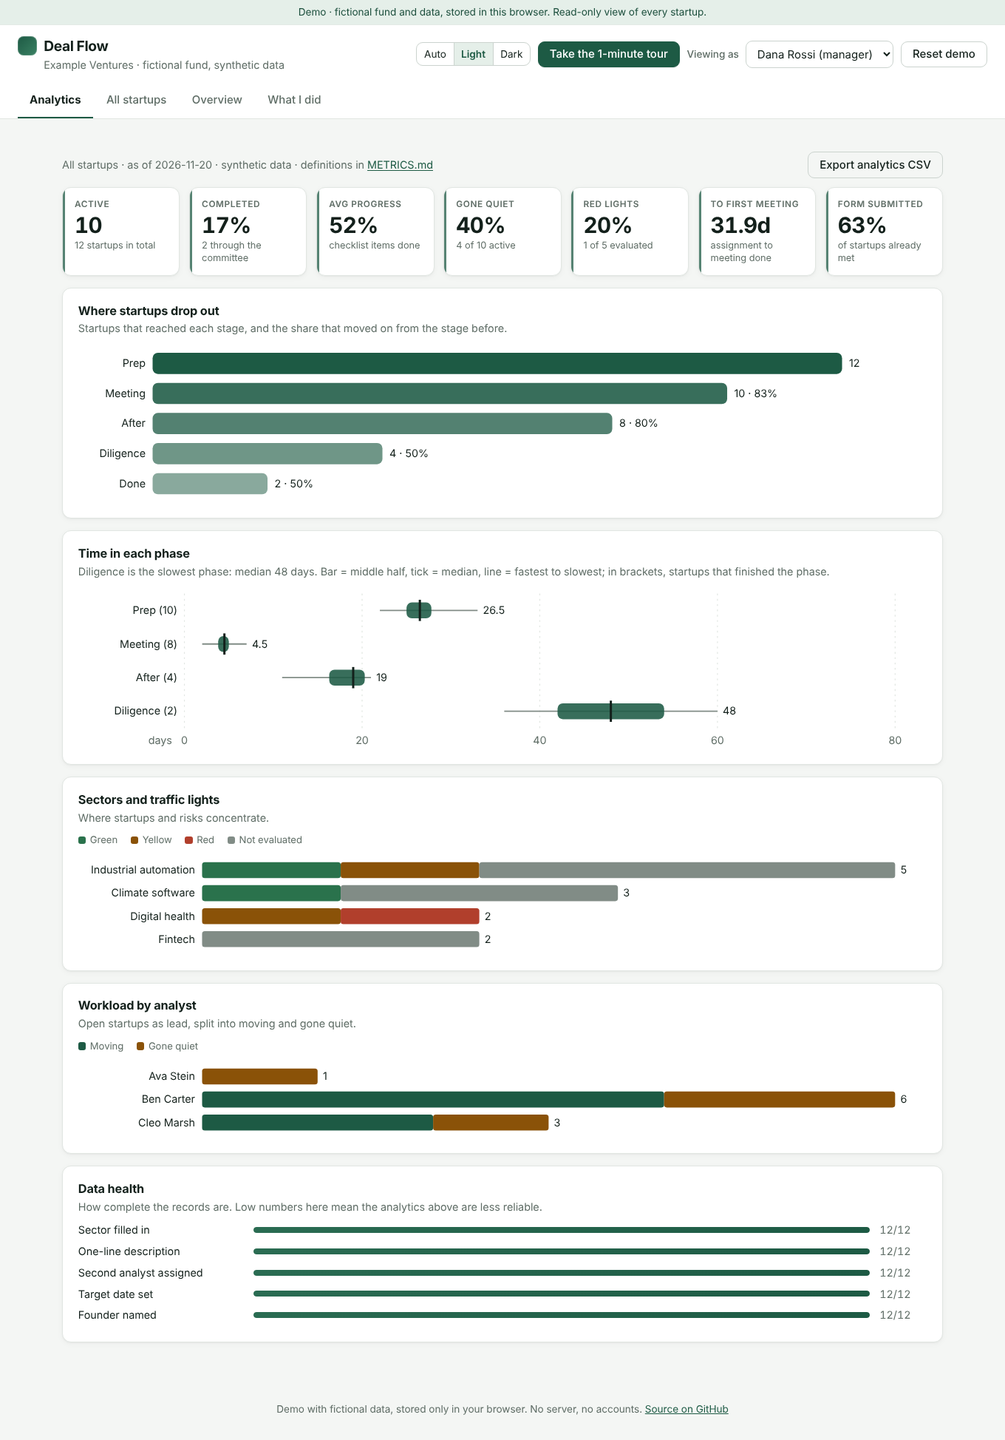
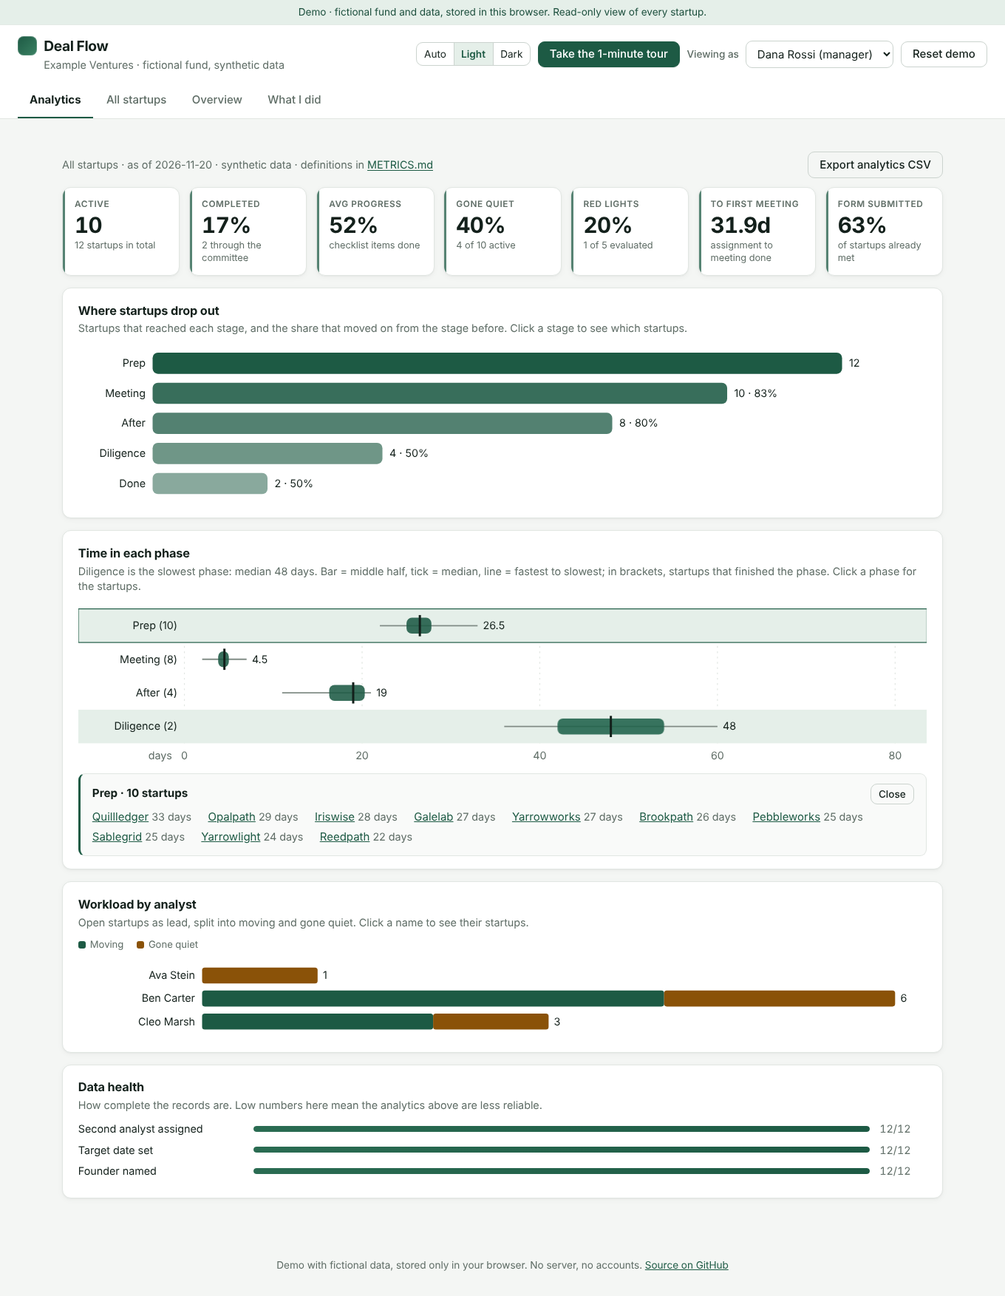
feat: interactive analytics charts with click-through, focus on real-process metrics; redesign What I did with origin story
Claude-Session: https://claude.ai/code/session_01N9arR7BoFCMTo9ZA3dDA75

diff --git a/js/app.js b/js/app.js
@@ -4,7 +4,7 @@ import {
   toggleItem, logActivity, p0Rule, proposeForm, formBlockers, openQuestions, startupLight,
   findSlots, bookSlot, freeSlots, slotLabel, draftText, analystSummary, parseCsv, toCsv, newStartup,
 } from './logic.js';
-import { pipelineKpis, funnel, stageDurationStats, sectorByLight, lightMix, datasetHealth, analyticsCsv } from './analytics.js';
+import { pipelineKpis, funnel, stageDurationStats, lightMix, datasetHealth, analyticsCsv, drillDown } from './analytics.js';
 import { rangeChart, stackedBars, funnelChart, dataTable } from './charts.js';
 import { TOUR_STEPS } from './tour.js';
 import { seedPortfolio, portfolioAvailability, PORTFOLIO_USERS } from '../data/portfolio-seed.js';
@@ -30,7 +30,7 @@ const state = {
   userId: USERS.some((u) => u.id === params.get('as')) ? params.get('as') : 'dana',
   view: ['overview', 'deal', 'deals', 'analytics', 'about'].includes(params.get('view')) ? params.get('view') : 'analytics',
   dealId: params.get('deal') || null,
-  tour: params.get('tour') ? Math.min(Number(params.get('tour')) - 1, TOUR_STEPS.length - 1) : null, phase: null, tab: 'founders', tile: null, q: '', importPreview: null, status: '',
+  tour: params.get('tour') ? Math.min(Number(params.get('tour')) - 1, TOUR_STEPS.length - 1) : null, phase: null, tab: 'founders', tile: null, q: '', importPreview: null, drill: null, status: '',
   theme: ['light', 'dark'].includes(params.get('theme')) ? params.get('theme') : readTheme(),
 };
 if (state.view === 'deal' && !state.startups.some((s) => s.id === state.dealId)) state.view = 'deals';
@@ -512,10 +512,22 @@ function barRow(label, percent, text, wide = false) {
     h('span', { class: 'bar', role: 'img', 'aria-label': `${label}: ${text}` }, h('span', { class: 'bar-fill', style: `width:${percent ?? 0}%` })), h('span', { class: 'bar-n' }, text));
 }
 
-function chartPanel(title, note, svg, table, legendItems) {
+function chartPanel(title, note, svg, table, legendItems, detail) {
   return h('section', { class: 'panel' }, h('h2', {}, title), note && h('p', { class: 'note' }, note),
     legendItems && h('p', { class: 'legend' }, legendItems.map(([color, text]) => h('span', {}, h('i', { class: 'swatch', style: `background:var(--${color})` }), text))),
-    svg, table);
+    svg, table, detail);
+}
+
+/** Which element of a chart is selected (one per chart kind), and the list of startups behind it. */
+const pick = (kind) => (state.drill?.kind === kind ? state.drill.key : null);
+function toggle(kind, key) { state.drill = pick(kind) === key ? null : { kind, key }; render(); }
+function drillPanel(kind, startups, title) {
+  if (!title) return null;
+  const rows = drillDown(startups, kind, pick(kind), today);
+  return h('div', { class: 'drill', role: 'region', 'aria-label': `Startups behind ${title}` },
+    h('div', { class: 'row', style: 'justify-content:space-between' }, h('h3', {}, `${title} \u00b7 ${rows.length} startup${rows.length === 1 ? '' : 's'}`),
+      h('button', { class: 'btn ghost sm', onclick: () => { state.drill = null; render(); } }, 'Close')),
+    h('ul', { class: 'drill-list' }, rows.map((r) => h('li', {}, h('button', { class: 'link', onclick: () => openDeal(r.id) }, r.name), h('span', { class: 'note' }, ` ${r.detail}`)))));
 }
 
 function chartWidth() { return Math.max(320, Math.min(960, document.documentElement.clientWidth - 56)); }
@@ -528,7 +540,6 @@ function analyticsView() {
   const fn = funnel(mine);
   const stats = stageDurationStats(mine);
   const W = chartWidth();
-  const sectors = sectorByLight(mine);
   const mix = lightMix(mine);
   const people = ANALYSTS.filter((a) => me.role === 'manager' || a.id === me.id);
   const load = analystSummary(mine, people, today);
@@ -546,23 +557,19 @@ function analyticsView() {
       kpi(pctText(k.redRate), 'Red lights', `${k.red} of ${mine.length - mix.none} evaluated`),
       kpi(k.daysToFirstMeeting == null ? null : `${k.daysToFirstMeeting}d`, 'To first meeting', 'assignment to meeting done'),
       kpi(pctText(k.formRate), 'Form submitted', 'of startups already met')),
-    chartPanel('Where startups drop out', 'Startups that reached each stage, and the share that moved on from the stage before.',
-      funnelChart({ width: W, stages: fn, label: `Funnel: ${fn.map((f) => `${f.label} ${f.reached}`).join(', ')}.` }),
-      dataTable('Funnel', ['Stage', 'Reached', 'Conversion %'], fn.map((f) => [f.label, f.reached, f.conversion]))),
-    chartPanel('Time in each phase', slow ? `${slow.label} is the slowest phase: median ${slow.median} days. Bar = middle half, tick = median, line = fastest to slowest; in brackets, startups that finished the phase.` : 'No finished phases yet.',
-      rangeChart({ width: W, rows: stats, label: `Days per phase, median: ${stats.map((x) => `${x.label} ${x.median ?? 'none'}`).join(', ')}.` }),
-      dataTable('Days per phase', ['Phase', 'Finished', 'Fastest', 'Q1', 'Median', 'Q3', 'Slowest'], stats.map((x) => [x.label, x.n, x.min, x.p25, x.median, x.p75, x.max]))),
-    chartPanel('Sectors and traffic lights', 'Where startups and risks concentrate.',
-      stackedBars({ width: W, rows: sectors.map((x) => ({ label: x.sector, parts: ['green', 'yellow', 'red', 'none'].map((key) => ({ key, value: x[key] })) })), keys: [{ key: 'green', color: 'green' }, { key: 'yellow', color: 'yellow' }, { key: 'red', color: 'red' }, { key: 'none', color: 'none' }], label: `Startups by sector and light. Largest: ${sectors[0].sector}, ${sectors[0].total}.` }),
-      dataTable('Sectors by light', ['Sector', 'Green', 'Yellow', 'Red', 'Not evaluated'], sectors.map((x) => [x.sector, x.green, x.yellow, x.red, x.none])),
-      [['green', 'Green'], ['yellow', 'Yellow'], ['red', 'Red'], ['control', 'Not evaluated']]),
-    chartPanel(me.role === 'manager' ? 'Workload by analyst' : 'Your workload', 'Open startups as lead, split into moving and gone quiet.',
-      stackedBars({ width: W, rows: load.map((a) => ({ label: a.name, parts: [{ key: 'moving', value: a.open - a.quiet }, { key: 'quiet', value: a.quiet }] })), keys: [{ key: 'moving', color: 'brand' }, { key: 'quiet', color: 'yellow' }], label: `Open startups per analyst: ${load.map((a) => `${a.name} ${a.open}`).join(', ')}.` }),
+    chartPanel('Where startups drop out', 'Startups that reached each stage, and the share that moved on from the stage before. Click a stage to see which startups.',
+      funnelChart({ width: W, stages: fn, selected: pick('stage'), onSelect: (id) => toggle('stage', id), label: `Funnel: ${fn.map((f) => `${f.label} ${f.reached}`).join(', ')}.` }),
+      dataTable('Funnel', ['Stage', 'Reached', 'Conversion %'], fn.map((f) => [f.label, f.reached, f.conversion])), null, drillPanel('stage', mine, fn.find((f) => f.id === pick('stage'))?.label)),
+    chartPanel('Time in each phase', slow ? `${slow.label} is the slowest phase: median ${slow.median} days. Bar = middle half, tick = median, line = fastest to slowest; in brackets, startups that finished the phase. Click a phase for the startups.` : 'No finished phases yet.',
+      rangeChart({ width: W, rows: stats, selected: pick('phase'), onSelect: (id) => toggle('phase', id), label: `Days per phase, median: ${stats.map((x) => `${x.label} ${x.median ?? 'none'}`).join(', ')}.` }),
+      dataTable('Days per phase', ['Phase', 'Finished', 'Fastest', 'Q1', 'Median', 'Q3', 'Slowest'], stats.map((x) => [x.label, x.n, x.min, x.p25, x.median, x.p75, x.max])), null, drillPanel('phase', mine, stats.find((x) => x.id === pick('phase'))?.label)),
+    chartPanel(me.role === 'manager' ? 'Workload by analyst' : 'Your workload', 'Open startups as lead, split into moving and gone quiet. Click a name to see their startups.',
+      stackedBars({ width: W, rows: load.map((a) => ({ key: a.id, label: a.name, parts: [{ key: 'moving', value: a.open - a.quiet }, { key: 'quiet', value: a.quiet }] })), selected: pick('analyst'), onSelect: (id) => toggle('analyst', id), keys: [{ key: 'moving', color: 'brand' }, { key: 'quiet', color: 'yellow' }], label: `Open startups per analyst: ${load.map((a) => `${a.name} ${a.open}`).join(', ')}.` }),
       dataTable('Workload', ['Analyst', 'Open as lead', 'Gone quiet'], load.map((a) => [a.name, a.open, a.quiet])),
-      [['brand', 'Moving'], ['yellow', 'Gone quiet']]),
+      [['brand', 'Moving'], ['yellow', 'Gone quiet']], drillPanel('analyst', mine, load.find((a) => a.id === pick('analyst'))?.name)),
     h('section', { class: 'panel' }, h('h2', {}, 'Data health'),
       h('p', { class: 'note' }, 'How complete the records are. Low numbers here mean the analytics above are less reliable.'),
-      datasetHealth(mine).map((c) => barRow(c.label, c.percent, `${c.passed}/${c.total}`, true))));
+      datasetHealth(mine).filter((c) => ['second', 'target', 'founders'].includes(c.id)).map((c) => barRow(c.label, c.percent, `${c.passed}/${c.total}`, true))));
 }
 
 // ---- Guided tour ---------------------------------------------------------------------------
@@ -610,21 +617,30 @@ const REPO = 'https://github.com/aradyaacovi/vc-deal-pipeline';
 function aboutView() {
   const list = (items) => h('ul', {}, items.map((x) => h('li', {}, x)));
   const link = (text, path) => h('a', { href: `${REPO}/${path}` }, text);
+  const steps = ['Write a specification and agree on it', 'Build it on its own branch', 'Run the tests, check it in a browser', 'Open a pull request', 'I review and decide whether it merges'];
+  const skills = ['Process design', 'KPI definition', 'Data-quality rules', 'Role-based access', 'Product specification', 'Testing and CI', 'Directing an AI developer'];
   return h('main', { class: 'about' },
-    h('section', { class: 'panel' }, h('h2', {}, 'What I did'),
-      h('p', {}, 'I built a deal-flow tool for a student VC fund: one process for every startup, a traffic-light evaluation, a manager view made of exceptions, and an analytics dashboard. The product decisions come from my own work mentoring startups in a university fund. The code was written with Claude Code, under my direction and review.')),
+    h('section', { class: 'hero' },
+      h('p', { class: 'cap' }, 'What I did'),
+      h('h2', {}, 'A deal-flow tool, designed by me and built with Claude Code'),
+      h('p', {}, 'One process for every startup, a traffic-light evaluation, a manager view made of exceptions, and an analytics dashboard. I set the problem, the rules and the metrics; the AI wrote the code under my direction and review.'),
+      h('p', { class: 'chips' }, skills.map((x) => h('span', { class: 'chip-s' }, x)))),
+    h('section', { class: 'panel origin' }, h('h2', {}, 'Where this came from'),
+      h('p', {}, 'I am a third-year Industrial Engineering and Management student, and a member of a student-run VC fund at my university. After the fund\u2019s training course I mentor early-stage university startups and guide them toward the investment committee.'),
+      h('p', {}, 'Doing that, I followed each startup across a spreadsheet, a shared drive, meeting notes and forms. The questions were always the same: where is each startup, what is the next step, who needs attention? This project is my attempt to answer them with one clear process and a few well-defined numbers.'),
+      h('p', { class: 'note' }, 'This public version is generic: the data is invented and nothing from the fund is in it.')),
     h('div', { class: 'two' },
-      h('section', { class: 'panel' }, h('h3', {}, 'My part'),
+      h('section', { class: 'panel mine' }, h('h3', {}, 'My part'),
         list(['Defined the problem and who the users are (analyst, manager).', 'Designed the process: four phases, the checklist, the P0 traffic-light rule and what it should and should not decide.', 'Decided how roles work and what each can see.', 'Chose which metrics and data-quality checks to build, and reviewed how they are defined.', 'Set the requirements, corrected the specifications, and approved every change before it merged.', 'Checked the result in the browser against what I intended.'])),
-      h('section', { class: 'panel' }, h('h3', {}, 'Claude Code\u2019s part'),
+      h('section', { class: 'panel ai' }, h('h3', {}, 'Claude Code\u2019s part'),
         list(['Wrote the code and the tests from my specifications.', 'Proposed options and trade-offs, which I accepted, changed or rejected.', 'Opened a pull request for each change, with tests and screenshots.', 'Everything it produced is a draft until I review it; the AI helper in the tool follows the same rule.']))),
     h('section', { class: 'panel' }, h('h2', {}, 'How the work ran'),
-      h('ol', {}, ['Write a specification and agree on it.', 'Build it on its own branch.', 'Run the tests and check it in a browser.', 'Open a pull request.', 'I review it, ask for changes, and decide whether it merges.'].map((x) => h('li', {}, x))),
+      h('ol', { class: 'steps' }, steps.map((x) => h('li', {}, x))),
       h('p', { class: 'note' }, 'Small steps, one pull request each, so every decision can be read and reversed.')),
     h('section', { class: 'panel' }, h('h2', {}, 'Decisions worth asking me about'),
       list(['Why the traffic light is a suggestion and not an automatic verdict.', 'Why a bad CSV row is rejected but an untidy one is cleaned and flagged.', 'Why founder-provided information is kept apart and labelled.', 'Why the charts are hand-drawn SVG and the demo data is generated from a seed.']),
       h('p', {}, 'The reasoning is written down in ', link('DECISIONS.md', 'blob/main/docs/DECISIONS.md'), '; each metric is defined in ', link('METRICS.md', 'blob/main/docs/METRICS.md'), '.')),
-    h('section', { class: 'panel' }, h('h2', {}, 'Honest limits'),
+    h('section', { class: 'panel limits' }, h('h2', {}, 'Honest limits'),
       h('p', {}, 'No backend and no sign-in: roles are enforced in the interface to show the model. All data is invented, so the numbers show how the metrics behave, not how a real fund performs. Tests run on every change: ', link('see the latest run', 'actions'), '.')));
 }
 

diff --git a/js/charts.js b/js/charts.js
@@ -25,6 +25,17 @@ export function dataTable(caption, headers, rows) {
   return box;
 }
 
+/** One clickable, focusable, hoverable row. A native <title> gives the tooltip; Enter/Space selects. */
+function hit(svg, { x, y, width, height, tip, selected, onSelect }, ...kids) {
+  const g = el('g', { class: `hit${selected ? ' on' : ''}`, role: onSelect ? 'button' : null, tabindex: onSelect ? 0 : null, 'aria-pressed': onSelect ? String(Boolean(selected)) : null, 'aria-label': tip });
+  g.append(el('title', {}, document.createTextNode(tip)), el('rect', { x, y, width, height, fill: 'transparent', class: 'hit-bg' }), ...kids);
+  if (onSelect) {
+    g.addEventListener('click', onSelect);
+    g.addEventListener('keydown', (e) => { if (e.key === 'Enter' || e.key === ' ') { e.preventDefault(); onSelect(); } });
+  }
+  svg.append(g);
+}
+
 function frame(width, height, label) {
   return el('svg', { viewBox: `0 0 ${width} ${height}`, role: 'img', 'aria-label': label, class: 'chart', preserveAspectRatio: 'xMidYMid meet' });
 }
@@ -33,7 +44,7 @@ function frame(width, height, label) {
 const niceMax = (v) => { for (const step of [1, 2, 5, 10, 20, 25, 50, 100, 200, 250, 500, 1000]) if (step * 4 >= v) return step * 4; return Math.ceil(v / 4) * 4; };
 
 /** Horizontal range bars: the middle half as a bar, the median as a tick, min to max as a whisker. */
-export function rangeChart({ rows, label, unit = 'days', width = 960 }) {
+export function rangeChart({ rows, label, unit = 'days', width = 960, selected = null, onSelect = null }) {
   const rowH = 38;
   const m = { l: 120, r: 36, t: 8, b: 26 };
   const height = m.t + m.b + rows.length * rowH;
@@ -47,19 +58,20 @@ export function rangeChart({ rows, label, unit = 'days', width = 960 }) {
   svg.append(text(m.l - 14, height - 8, unit, { 'text-anchor': 'end' }));
   rows.forEach((r, i) => {
     const cy = m.t + i * rowH + rowH / 2;
-    svg.append(text(m.l - 8, cy + 4, `${r.label} (${r.n})`, { 'text-anchor': 'end', fill: 'var(--ink)', 'font-size': 12 }));
-    if (r.n === 0) return;
-    svg.append(
+    const tip = r.n === 0 ? `${r.label}: no startup has finished this phase yet` : `${r.label}: median ${r.median} ${unit}, middle half ${r.p25}\u2013${r.p75}, fastest ${r.min}, slowest ${r.max}, ${r.n} finished`;
+    const kids = [text(m.l - 8, cy + 4, `${r.label} (${r.n})`, { 'text-anchor': 'end', fill: 'var(--ink)', 'font-size': 12 })];
+    if (r.n > 0) kids.push(
       el('line', { x1: x(r.min), x2: x(r.max), y1: cy, y2: cy, stroke: COLOR.none, 'stroke-width': 1.5 }),
-      el('rect', { x: x(r.p25), y: cy - 9, width: Math.max(2, x(r.p75) - x(r.p25)), height: 18, rx: 6, fill: COLOR.brand, opacity: 0.88 }),
+      el('rect', { x: x(r.p25), y: cy - 9, width: Math.max(2, x(r.p75) - x(r.p25)), height: 18, rx: 6, fill: COLOR.brand, opacity: 0.88, class: 'mark' }),
       el('line', { x1: x(r.median), x2: x(r.median), y1: cy - 12, y2: cy + 12, stroke: 'var(--ink)', 'stroke-width': 2.5 }),
       text(x(r.max) + 6, cy + 4, `${r.median}`, { fill: 'var(--ink)' }));
+    hit(svg, { x: 0, y: cy - rowH / 2, width, height: rowH, tip, selected: selected === r.id, onSelect: r.n > 0 && onSelect ? () => onSelect(r.id) : null }, ...kids);
   });
   return svg;
 }
 
 /** Stacked horizontal bars. rows: [{ label, parts: [{ key, value }] }], keys: [{ key, color }]. */
-export function stackedBars({ rows, keys, label, width = 960 }) {
+export function stackedBars({ rows, keys, label, width = 960, selected = null, onSelect = null }) {
   const rowH = 26;
   const m = { l: 140, r: 36, t: 6, b: 6 };
   const height = m.t + m.b + rows.length * rowH;
@@ -69,20 +81,22 @@ export function stackedBars({ rows, keys, label, width = 960 }) {
   rows.forEach((r, i) => {
     const cy = m.t + i * rowH;
     let x0 = m.l;
-    svg.append(text(m.l - 8, cy + 16, r.label, { 'text-anchor': 'end', fill: 'var(--ink)', 'font-size': 12 }));
+    const kids = [text(m.l - 8, cy + 16, r.label, { 'text-anchor': 'end', fill: 'var(--ink)', 'font-size': 12 })];
     for (const p of r.parts) {
       if (!p.value) continue;
       const color = keys.find((k) => k.key === p.key)?.color;
-      svg.append(el('rect', { x: x0, y: cy + 3, width: p.value * scale, height: rowH - 8, fill: COLOR[color] ?? color, rx: 3 }));
+      kids.push(el('rect', { x: x0, y: cy + 3, width: p.value * scale, height: rowH - 8, fill: COLOR[color] ?? color, rx: 3, class: 'mark' }));
       x0 += p.value * scale;
     }
-    svg.append(text(x0 + 6, cy + 16, r.parts.reduce((n, p) => n + p.value, 0), { fill: 'var(--ink)' }));
+    const total = r.parts.reduce((n, p) => n + p.value, 0);
+    kids.push(text(x0 + 6, cy + 16, total, { fill: 'var(--ink)' }));
+    hit(svg, { x: 0, y: cy, width, height: rowH, tip: `${r.label}: ${r.parts.map((p) => `${p.value} ${p.key}`).join(', ')}`, selected: selected === r.key, onSelect: onSelect && total ? () => onSelect(r.key) : null }, ...kids);
   });
   return svg;
 }
 
 /** Funnel: one bar per stage, width = share of the first stage, with the conversion from the stage before. */
-export function funnelChart({ stages, label, width = 960 }) {
+export function funnelChart({ stages, label, width = 960, selected = null, onSelect = null }) {
   const rowH = 34;
   const m = { l: 84, r: 96, t: 6, b: 6 };
   const height = m.t + m.b + stages.length * rowH;
@@ -91,9 +105,10 @@ export function funnelChart({ stages, label, width = 960 }) {
   stages.forEach((s, i) => {
     const cy = m.t + i * rowH;
     const w = ((width - m.l - m.r) * s.reached) / top;
-    svg.append(
+    const tip = `${s.label}: ${s.reached} startups reached it${s.conversion == null ? '' : `, ${s.conversion}% of those that reached the stage before`}`;
+    hit(svg, { x: 0, y: cy, width, height: rowH, tip, selected: selected === s.id, onSelect: onSelect && s.reached ? () => onSelect(s.id) : null },
       text(m.l - 8, cy + 20, s.label, { 'text-anchor': 'end', fill: 'var(--ink)', 'font-size': 12 }),
-      el('rect', { x: m.l, y: cy + 4, width: Math.max(2, w), height: rowH - 10, rx: 6, fill: COLOR.brand, opacity: 1 - i * 0.12 }),
+      el('rect', { x: m.l, y: cy + 4, width: Math.max(2, w), height: rowH - 10, rx: 6, fill: COLOR.brand, opacity: 1 - i * 0.12, class: 'mark' }),
       text(m.l + Math.max(2, w) + 8, cy + 20, s.conversion == null ? `${s.reached}` : `${s.reached} · ${s.conversion}%`, { fill: 'var(--ink)' }));
   });
   return svg;

diff --git a/css/style.css b/css/style.css
@@ -348,3 +348,29 @@ dialog { box-shadow: -18px 0 48px rgba(19,32,27,.18); }
   .tab { white-space: nowrap; }
 }
 @media (prefers-reduced-motion: reduce) { * { transition: none !important; animation: none !important; } }
+
+/* ---- Interactive charts ---- */
+.hit { cursor: default; outline: none; }
+.hit[role="button"] { cursor: pointer; }
+.hit .mark { transition: opacity .12s, filter .12s; }
+.hit:hover .hit-bg, .hit:focus-visible .hit-bg { fill: var(--brand-soft); }
+.hit:hover .mark, .hit:focus-visible .mark { filter: brightness(1.12); }
+.hit.on .hit-bg { fill: var(--brand-soft); stroke: var(--brand); stroke-width: 1; }
+.drill { margin-top: .6rem; padding: .8rem 1rem; border: 1px solid var(--line); border-left: 3px solid var(--brand); border-radius: var(--radius-sm); background: var(--surface-2); }
+.drill h3 { margin: 0; text-transform: none; letter-spacing: 0; font-size: .95rem; color: var(--ink); }
+.drill-list { list-style: none; margin: .4rem 0 0; padding: 0; display: flex; flex-wrap: wrap; gap: .3rem 1.4rem; }
+.drill-list li { white-space: nowrap; }
+
+/* ---- What I did ---- */
+.about .hero { margin: 1rem 0; padding: 1.6rem 1.8rem; border-radius: 16px; background: linear-gradient(135deg, var(--brand-soft), var(--surface)); border: 1px solid var(--line); }
+.about .hero h2 { font-size: 1.6rem; line-height: 1.25; letter-spacing: -0.02em; margin: .2rem 0 .6rem; max-width: 40ch; }
+.about .hero p { max-width: 62ch; color: var(--muted); }
+.about .hero .cap { color: var(--brand); font-weight: 600; text-transform: uppercase; letter-spacing: .06em; font-size: .72rem; margin: 0; }
+.about .chips { display: flex; flex-wrap: wrap; gap: .4rem; margin-top: 1rem; }
+.about .chip-s { padding: .2rem .7rem; border: 1px solid color-mix(in srgb, var(--brand) 35%, var(--line)); border-radius: 999px; background: var(--surface); font-size: .82rem; color: var(--ink); }
+.about .origin { border-left: 3px solid var(--brand); }
+.about .origin p { max-width: 70ch; }
+.about .steps { list-style: none; counter-reset: s; display: grid; grid-template-columns: repeat(auto-fit, minmax(150px, 1fr)); gap: .6rem; padding: 0; margin: .6rem 0; }
+.about .steps li { counter-increment: s; position: relative; padding: 2.3rem .8rem .7rem; border: 1px solid var(--line); border-radius: var(--radius-sm); background: var(--surface-2); font-size: .9rem; line-height: 1.4; margin: 0; }
+.about .steps li::before { content: counter(s); position: absolute; top: .6rem; left: .8rem; width: 1.4rem; height: 1.4rem; border-radius: 50%; background: var(--brand); color: #fff; font-size: .8rem; font-weight: 600; display: grid; place-items: center; }
+.about .limits { background: var(--surface-2); }

diff --git a/js/analytics.js b/js/analytics.js
@@ -135,3 +135,27 @@ export function analyticsCsv(startups, today) {
   for (const s of sectorBreakdown(startups)) rows.push(['sector', s.sector, s.count]);
   return `${rows.map((r) => r.map(csvEscape).join(',')).join('\n')}\n`;
 }
+
+/** The startups behind one chart element, for click-through. kind: 'stage' | 'phase' | 'analyst'. */
+export function drillDown(startups, kind, key, today) {
+  const row = (s, detail) => ({ id: s.id, name: s.name, lead: s.lead, detail });
+  if (kind === 'stage') {
+    const order = [...PHASES.map((p) => p.id), 'done'];
+    const at = order.indexOf(key);
+    return startups.filter((s) => order.indexOf(currentPhase(s)) >= at).map((s) => row(s, `now in ${currentPhase(s)}`));
+  }
+  if (kind === 'phase') {
+    const i = PHASES.findIndex((p) => p.id === key);
+    const out = [];
+    for (const s of startups) {
+      const end = phaseCompletedOn(s, key);
+      const start = i === 0 ? s.assigned : phaseCompletedOn(s, PHASES[i - 1].id);
+      if (end && start && daysBetween(start, end) >= 0) out.push({ ...row(s, `${daysBetween(start, end)} days`), days: daysBetween(start, end) });
+    }
+    return out.sort((a, b) => b.days - a.days);
+  }
+  if (kind === 'analyst') {
+    return startups.filter((s) => s.lead === key && currentPhase(s) !== 'done').map((s) => row(s, isQuiet(s, today) ? 'gone quiet' : 'moving'));
+  }
+  return [];
+}

diff --git a/tests/analytics.test.js b/tests/analytics.test.js
@@ -85,3 +85,15 @@ test('analytics CSV: header, KPI rows, and no raw formulas', () => {
   assert.ok(csv.includes("'=SUM(A1)"));
   assert.ok(!/(^|,)=SUM/m.test(csv));
 });
+
+test('drillDown lists the startups behind a chart element', async () => {
+  const { seedPortfolio } = await import('../data/portfolio-seed.js');
+  const list = seedPortfolio('2026-11-20').startups ?? seedPortfolio('2026-11-20');
+  const fn = A.funnel(list);
+  for (const f of fn) assert.equal(A.drillDown(list, 'stage', f.id, '2026-11-20').length, f.reached);
+  const st = A.stageDurationStats(list);
+  for (const s of st) assert.equal(A.drillDown(list, 'phase', s.id, '2026-11-20').length, s.n);
+  const leads = [...new Set(list.map((s) => s.lead))];
+  const open = leads.reduce((n, id) => n + A.drillDown(list, 'analyst', id, '2026-11-20').length, 0);
+  assert.equal(open, list.filter((s) => A.funnel([s]).at(-1).reached === 0).length);
+});
